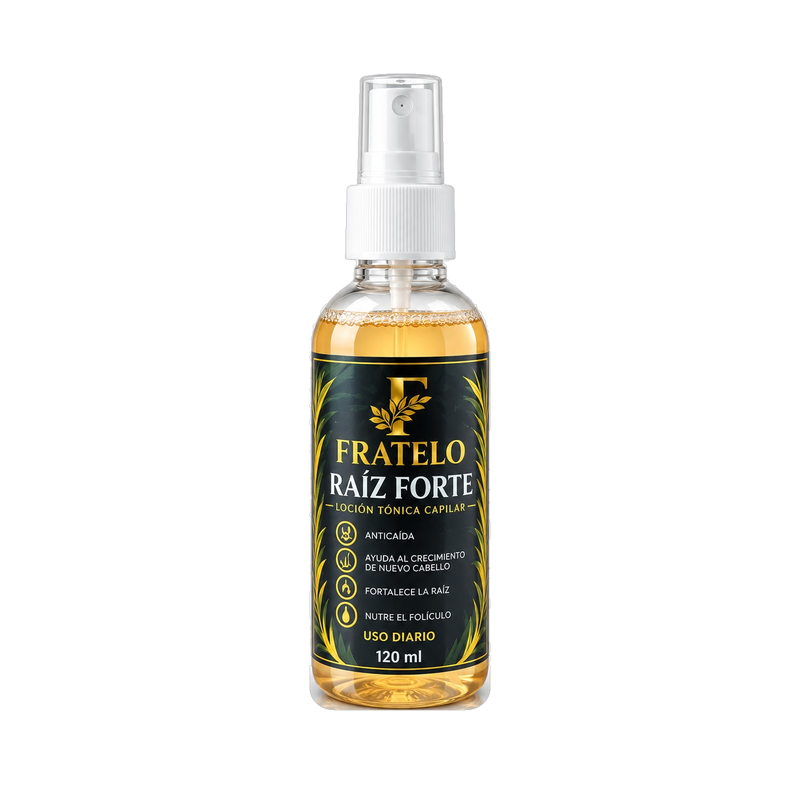
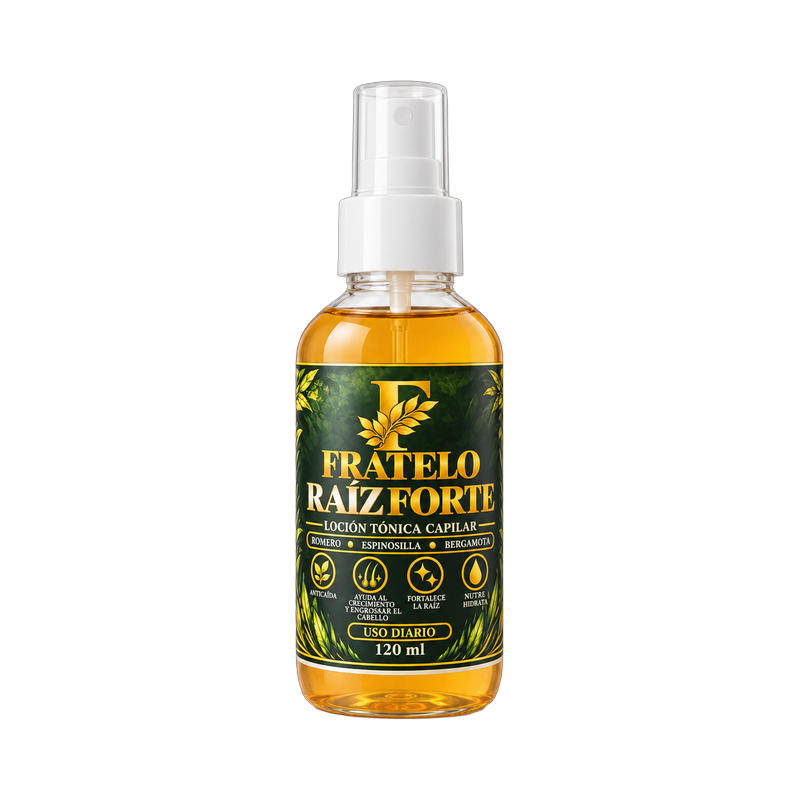
Fotos nuevas de Fratelo Raíz Forte 120 ml y Raíz Vital 1 L (#33)
* Fotos nuevas de Fratelo Raíz Forte 120 ml y Raíz Vital 1 L (PNG del kit)

Claude-Session: https://claude.ai/code/session_01MW4YBNVCdbsHfkz1U2M1qe

* Cotizador usa las fotos nuevas de Fratelo Raíz Forte y Raíz Vital

Claude-Session: https://claude.ai/code/session_01MW4YBNVCdbsHfkz1U2M1qe

---------

Changed region(s): [[0.3438, 0.0938, 0.6562, 0.9062], [0.4062, 0.25, 0.4375, 0.2812]]

diff --git a/src/PedidoTabla.jsx b/src/PedidoTabla.jsx
@@ -1867,7 +1867,7 @@ const productCatalog = [
     mayoreo: 165.00,
     mostrador: 299.00,
     digital: 299.00,
-    image: "https://res.cloudinary.com/dl2s0vpwb/image/upload/f_auto,q_auto,w_400/fratelo/fratelo-raiz-forte-tonico-120ml",
+    image: "https://res.cloudinary.com/dl2s0vpwb/image/upload/f_auto,q_auto,w_400/v1793045916/fratelo/fratelo-raiz-forte-tonico-120ml-v2.png",
     kitImage: "/assets/fratelo/productos/fratelo-raiz-forte-tonico-120ml.png",
   },
   {
@@ -1881,7 +1881,7 @@ const productCatalog = [
     mayoreo: 130.00,
     mostrador: 299.00,
     digital: 299.00,
-    image: "https://res.cloudinary.com/dl2s0vpwb/image/upload/f_auto,q_auto,w_400/fratelo/fratelo-raiz-vital-shampoo-1l",
+    image: "https://res.cloudinary.com/dl2s0vpwb/image/upload/f_auto,q_auto,w_400/v1793045917/fratelo/fratelo-raiz-vital-shampoo-1l-v2.png",
     kitImage: "/assets/fratelo/productos/fratelo-raiz-vital-shampoo-1l.png",
   },
 
